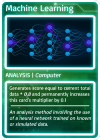
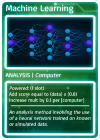
feat: implement power tokens and add 4 new cards - sk, fission reactor, lbnf, and neu oscillation
I was naughty and did not split these into separate commits. Really, this should have been at least 5, probably.

Changed region(s): [[0.09, 0.6, 0.93, 0.7429], [0.09, 0.7714, 0.93, 0.9143]]

diff --git a/cards.py b/cards.py
@@ -2,6 +2,22 @@ import vars
 import tkinter as tk
 from copy import deepcopy
 
+def allocate_power_tokens(index, active_row):
+    """Allocate as many unused power tokens as possible to active powered cards with indices > index."""
+    for card in active_row[index+1:]:
+        tokens_added = 0  # Internal, just for debug / console message printing
+        for _ in range(card.power_slots - card.power_tokens):
+            card.power_tokens += 1
+            tokens_added += 1
+            vars.unused_power_tokens -= 1
+            if vars.unused_power_tokens == 0:
+                break
+        if tokens_added > 0:
+            print(f'Allocated {tokens_added} power token(s) to {active_row.index(card)} {card}!')
+        if vars.unused_power_tokens == 0:
+            print('All power tokens allocated!')
+            break
+
 # Contains the general card_name class and the special functions for invoking each card_name.
 
 # f stands for function
@@ -9,16 +25,44 @@ def f_default():
     """Default card_name function as a fallback."""
     raise Exception('Card activated with undefined function')
 
+def f_base(self, ar):
+    """Perform functions universal to all cards."""
+
+    # Display the activation pointer under the current card
+
+
+
+    # # If we have any unused power tokens, try to put them on this card
+    # if vars.unused_power_tokens > 0:
+    #     if 'computer' in self.tags:
+    #         for _ in range(3):  # Attempt to put up to 3 unused_power_tokens tokens on the card
+    #             vars.unused_power_tokens -= 1
+    #             self.power_tokens += 1
+    #             if vars.unused_power_tokens == 0:
+    #                 break
+    #         print(f'{ar.index(self)} {self.name}:\t Card now has {self.power_tokens} power tokens!')
+
 
 def f_icecube(self, ar):
     """Generate data from neutrino flux."""
+    # f_base(self, ar)
     active_row = ar
     vars.data += vars.neutrino_flux
     print(f'{ar.index(self)} {self.name}:\tData increased by {vars.neutrino_flux}!')
 
+
+def f_super_kamiokande(self, ar):
+    """Generate data from neutrino flux, more efficiently if the neutrino oscillation card is in the active row."""
+    if 'Neutrino Oscill.' in [card.name for card in ar]:
+        vars.data += vars.neutrino_flux * 1.5
+    else:
+        vars.data += vars.neutrino_flux * 0.8
+
+
 # Prototype functions for the initial demo / testing
 def f_retrigger_left(self, ar):
     """Re-activate the ability of the card_name to the left."""
+    # f_base(self, ar)
 
     active_row = ar
     my_index = active_row.index(self)  # The index of this retrigger card
@@ -32,34 +76,72 @@ def f_retrigger_left(self, ar):
 
 def f_neutrino_generator(self, ar):
     """Increase the current neutrino flux."""
+    # f_base(self, ar)
     vars.neutrino_flux += 500
     print(f'{ar.index(self)} {self.name}:\tIncreased Neutrino Flux by 500 (flux is now {vars.neutrino_flux}).')
 
 
 def f_machine_learning(self, ar):
     """Generate score from data based on the card's current multiplier, then increase the multiplier."""
-    score_increase = vars.data * self.param
-    vars.score += score_increase
+    # f_base(self, ar)
+    if self.power_tokens == 0: # Card requires 1 token to run
+        print(f'{ar.index(self)} {self.name}:\tUnpowered!')
+    else:
+        # Increase score
+        score_increase = vars.data * self.param
+        vars.score += score_increase
 
-    for card in ar:
-        if 'computer' in card.tags:  # Perma-increase multiplier by the number of computer cards in your row
-            self.param += 0.1
+        for card in ar:
+            if 'computer' in card.tags:  # Perma-increase multiplier by the number of computer cards in your row
+                self.param += 0.1
+            self.param = round(self.param, 2)
 
-    print(f'{ar.index(self)} {self.name}:\tGenerated {score_increase} score from {vars.data} data! '
-          f'ML multiplier increased to {self.param}.')
+        print(f'{ar.index(self)} {self.name}:\tGenerated {score_increase} score from {vars.data} data! '
+              f'ML multiplier increased to {self.param}.')
 
 
 def f_recompute(self, ar):
     """Re-activate all cards with the 'computer' tag."""
+    # f_base(self, ar)
     for card in ar:
         if 'computer' in card.tags:
             print(f'{ar.index(self)} {self.name}:\tRe-activating {ar.index(card)} {card.name} due to its computer tag!')
             card.function(ar)
 
 
+def f_fission_reactor(self, ar):
+    vars.neutrino_flux += 1000
+    print(f'{ar.index(self)} {self.name}\t: Increased Neutrino Flux by 1000 (flux is now {vars.neutrino_flux}).')
+
+    vars.unused_power_tokens += 5
+    print(f'{ar.index(self)} {self.name}\t: Added 5 power tokens to the pool! Attempting to allocate power to cards...')
+
+    i = ar.index(self)
+    allocate_power_tokens(i, ar)
+
+
+def f_lbnf_beam(self, ar):
+    if self.power_tokens == 0: # Card requires at least 1 token to run
+        print(f'{ar.index(self)} {self.name}:\tUnpowered!')
+    else:
+        vars.neutrino_flux += 1000 * self.power_tokens
+        print(f'{ar.index(self)} {self.name}\t: Increased Neutrino Flux by {1000 * self.power_tokens} '
+              f'(flux is now {vars.neutrino_flux}).')
+
+def f_neutrino_oscillation(self, ar):
+    print(f'{ar.index(self)} {self.name}\t: Multiplying score for each [neutrino] card...')
+    for card in ar:
+        if 'neutrino' in card.tags:
+            vars.score = vars.score * 1.5
+            print(f'{ar.index(self)} {self.name}\t: Multiplied score by 1.5 due to {ar.index(card)} {card.name}`s '
+                  f'[neutrino] tag! Score is now {vars.score}!')
+
+    # TODO: As mentioned on the card, come up with a cooler name for this
+
 class Card:
     """The general class used for each card in the game."""
-    def __init__(self, name='', image_file=None, card_type='', tags=(), function=f_default, param=0.0, rarity=vars.r_common):
+    def __init__(self, name='', image_file=None, card_type='', tags=(), function=f_default, param=0.0,
+                 rarity=vars.r_common, power_slots=0, power_tokens=0):
         self.name = name
         self.image_file = image_file
 
@@ -67,18 +149,14 @@ class Card:
         self.tags = tags
         self.rarity = rarity  # Coefficient to weight draw rarity. Higher number = more common card.
 
-        #: int: asdkd kwkw
         self.param = param
+
+        self.power_slots = power_slots  # The max number of power tokens that can be on the card
+        self.power_tokens = power_tokens  # The number of power tokens that are on the card. Generally starts at 0
+
         self.function = function
 
         self.gui_button = None
-    # def make_gui_button(self):
-    #     # The GUI object linked to this particular card.
-    #     self.gui_Button = tk.Button(text='placeholder')
-
-
-
-
 
     def __repr__(self):
         return self.name
@@ -95,22 +173,35 @@ def card_factory(card_name):
 # Huge master dict of all the cards and their effects.
 card_dict = {
     # Prototype Cards
-    'Neutr. Gen':   Card(name='Neutr. Gen', card_type='prototype', tags=['neutrino'],
-                         image_file='fp_small_neutrino_gen.png', function=f_neutrino_generator),
-    'ReCompute':    Card(name='ReCompute', card_type='prototype',
-                         image_file='fp_small_recompute.png', rarity=vars.r_uncommon, function=f_recompute),
-    'Re-Trigger':   Card(name='Re-Trigger', card_type='prototype',
-                         image_file='fp_small_retrigger.png', rarity=vars.r_uncommon, function=f_retrigger_left),
-
+    'Neutrino Gen':     Card(name='Neutrino Gen', card_type='prototype', tags=['neutrino'],
+                             image_file='fp_small_neutrino_gen.png', function=f_neutrino_generator),
+    'ReCompute':        Card(name='ReCompute', card_type='prototype',
+                             image_file='fp_small_recompute.png', rarity=vars.r_uncommon, function=f_recompute),
+    'Re-Trigger':       Card(name='Re-Trigger', card_type='prototype',
+                             image_file='fp_small_retrigger.png', rarity=vars.r_uncommon, function=f_retrigger_left),
 
     # Detector Cards
-    'IceCube':      Card(name='IceCube', card_type='detector', tags=['neutrino', 'astro'],
-                         image_file='fp_small_icecube.png', function=f_icecube),
+    'IceCube':          Card(name='IceCube', card_type='detector', tags=['neutrino', 'astro'],
+                             image_file='fp_small_icecube.png', function=f_icecube),
+    'SuperKamiokande':  Card(name='SuperKamiokande', card_type='detector', tags=['neutrino', 'astro'],
+                             image_file='fp_small_sk.png', function=f_super_kamiokande),
 
     # Analysis Cards
-    'Mach. Lrn.':   Card(name='Mach. Lrn.', card_type='analysis', tags=['computer'],
-                         image_file='fp_small_ml.png', param=0.8, function=f_machine_learning),
+    'Machine Learning': Card(name='Machine Learning', card_type='analysis', tags=['computer'],
+                             image_file='fp_small_ml.png', param=0.8, power_slots=1,
+                             function=f_machine_learning),
 
-    # Auxiliary Cards
+    # Special Cards
+    'Fission Reactor':  Card(name='Fission Reactor', card_type='special', tags=['reactor', 'neutrino'],
+                             image_file='fp_small_fission_reactor.png', rarity=vars.r_uncommon,
+                             function=f_fission_reactor),
+    'LBNF Beam':        Card(name='LBNF Beam', card_type='special', tags=['beam', 'neutrino'],
+                             image_file='fp_small_lbnf_beam.png', power_slots=3,
+                             function=f_lbnf_beam),
+
+    # Physics Cards (temporary name)
+    'Neutrino Oscill.': Card(name='Neutrino Oscill.', card_type='physics', tags=['neutrino'],
+                             image_file='fp_small_neutrino_oscillation.png', rarity=vars.r_rare,
+                             function=f_neutrino_oscillation),
 
     }

diff --git a/main.py b/main.py
@@ -7,8 +7,6 @@ import cards
 import vars
 import time
 
-
-
 # TODO: Implement a GUI to reorganize your active row
 
 def crack_booster_pack(pack_size=5,
@@ -34,6 +32,12 @@ def crack_booster_pack(pack_size=5,
         add_card_to_deck(c)
 
     print('Deck:', vars.deck)
+
+
+def get_all_cards():
+    """Add one copy of each card in card_dict to the deck."""
+    for card_name in cards.card_dict.keys():
+        add_card_to_deck(card_name)
 
 def add_card_to_deck(card_name):
     """Add a card by name to the deck, bind its function to the instance, and grid the corresponding button."""
@@ -90,8 +94,11 @@ def activate_cards():
     print('\nCard order:', vars.active_row)
 
     print('\n--------START--------')
+    print('Allocating grid power tokens...')
+    cards.allocate_power_tokens(-1, vars.active_row)
+
     for card in vars.active_row:
-        active_card_pointer.grid(row=1, column=active_row.index(card))
+        active_card_pointer.grid(row=1, column=vars.active_row.index(card))
         root.update()
         root.update_idletasks()
         card.function(vars.active_row)
@@ -115,19 +122,10 @@ def update_active_row_display():
 
     root.after(250, update_active_row_display)
 
-# def update_active_row_display():
-#     try:
-#         for item in active_item_label_list:
-#             item.config(image=image_dict[active_row[active_item_label_list.index(item)].image_file])
-#     except IndexError:
-#         pass
-#
-#     root.after(250, update_active_row_display)
-
-
-def update_score():
-    score_label.config(text=f'SCORE: {vars.score}')
-    root.after(250, update_score)
+def update_stat_display():
+    stat_display_label.config(text=f'SCORE: {vars.score}  |  DATA:  {vars.data}  |  '
+                                   f'POWER TOKENS: {vars.unused_power_tokens}')
+    root.after(250, update_stat_display)
 
 if __name__ == '__main__':
     # print('-----------------------------------------------------------------------------\n'
@@ -174,7 +172,7 @@ if __name__ == '__main__':
     F_deck_images = tk.Frame(F_sidebar)
     F_deck_images.grid(row=2, column=0, padx=5, pady=5, ipadx=1, ipady=1, sticky=tk.W + tk.E + tk.N + tk.S)
 
-    deck_canvas = tk.Canvas(F_deck_images, width=350, height=450, scrollregion=(0,0,0,800), yscrollincrement=10)
+    deck_canvas = tk.Canvas(F_deck_images, width=350, height=500, scrollregion=(0,0,0,800), yscrollincrement=15)
     deck_vbar = tk.Scrollbar(F_deck_images, orient=tk.VERTICAL, command=deck_canvas.yview)
     deck_canvas.configure(yscrollcommand=deck_vbar.set)
 
@@ -198,8 +196,8 @@ if __name__ == '__main__':
     deck_canvas.bind_all("<MouseWheel>", _on_mousewheel)
 
 
-    score_label = tk.Label(F_sidebar, text='SCORE: 0', bg='#777777', padx=125, pady=20)
-    score_label.grid(row=3, column=0, padx=5, pady=5, ipadx=1, ipady=1, sticky=tk.W + tk.E)
+    stat_display_label = tk.Label(F_sidebar, text='SCORE: 0', bg='#777777', padx=20, pady=20)
+    stat_display_label.grid(row=3, column=0, padx=5, pady=5, ipadx=1, ipady=1, sticky=tk.W + tk.E)
 
     F_controls = tk.Frame(root, bd=2, bg='#bbbbbb', relief=tk.GROOVE)
     F_controls.grid(row=1, column=1, padx=5, pady=5, ipadx=1, ipady=1, sticky=tk.E + tk.W)
@@ -215,7 +213,9 @@ if __name__ == '__main__':
     # reset_button = tk.Button(F_controls, text='Reset', command=reset)
     # reset_button.grid(row=1, column=2)
 
-    root.after(0, update_score)
+    get_all_cards()
+
+    root.after(0, update_stat_display)
     root.after(0, update_deck_display)
     root.after(0, update_active_row_display)
 

diff --git a/vars.py b/vars.py
@@ -10,10 +10,13 @@ neutrino_flux = 1000  # Should vary by week in actual version, pulled from actua
 
 data = 0
 score = 0
+# Integer number of power tokens, generated by things like nuclear reactors. Starts at 2 to represent grid power (and
+# to not be too punishing if people get bad draws)
+unused_power_tokens = 2
 
 deck = []
 active_row = []
-max_active_cards = 5  # The max number of cards that may be in the active row
+max_active_cards = 7  # The max number of cards that may be in the active row
 
 # Card rarity coefficients. Used when opening booster packs.
 

diff --git a/design.md b/design.md
@@ -15,6 +15,23 @@ What if data storage is a thing? Like you have a certain max amount of data?
 
 For aesthetic reasons at the very _least_, neutrino flux should be high but neutrino detectors convert flux to data inefficiently
 
+Neutrino cards could ignore some impediments? Flavored after neutrino non-interaction
+Maybe neutrinos are unique in that there is a global 'neutrino flux' value, whereas say protons are only available to
+the next few cards? To represent how you can just shoot a neutron beam to _anywhere_.
+
+Specific card ideas:
+- Nuclear reactor : Increases neutrino flux, supplies power
+  - Power is a resource that can be used by active particle sources
+    - Maybe can also be used by computer cards?
+    - Consider having power not be just a resource but a positional thing.
+    - Right now, there is maybe no reason to not generate power first?
+      - But actually, maybe you want to save your power to get used by your ml cluster instead of your beam?
+  
+
+Change my card function architecture so all functions call a base function first (inheritance basically)
+and that base function is responsible for performing universal card behaviors
+- E.g. all computer cards will draw power if available
+
 The core question I am asking for everything is:
 "How is this experiment/detector/analysis method different from others?"
 
